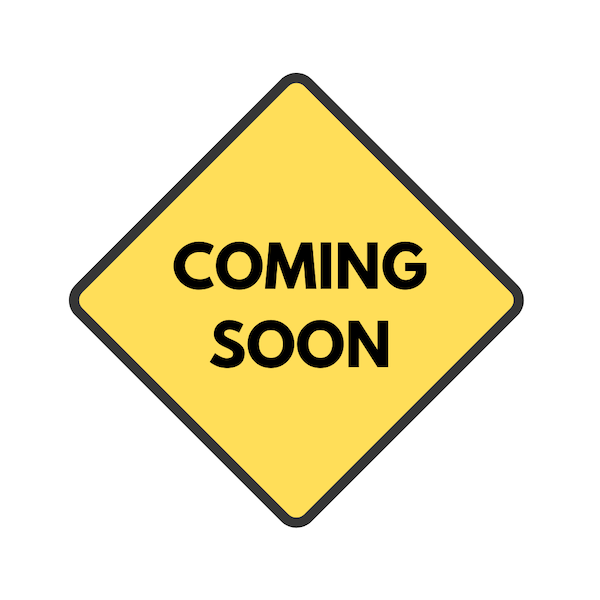
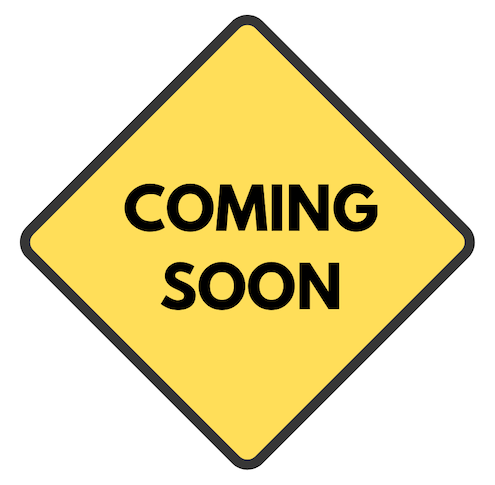
Cropped image and link to coming soon; removed testing links in _menu; corrected date of last entry in daily scrum, deleted unused code in _users

Changed region(s): [[0.0303, 0.0309, 0.9697, 0.9897]]

diff --git a/_main.php b/_main.php
@@ -18,58 +18,7 @@ $app->get('/', function ($request, $response, $args) {
     // return $response->write('this is main'); //for testing
     $loader = new FilesystemLoader(__DIR__ . '/templates');
     $twig = new Environment($loader);
-    // return $twig->render('index.html.twig'); //ss ok
-
-    // Templates
-    // return $twig->render('error_access_denied.html.twig'); //ss ok
-    // return $twig->render('error_internal.html.twig'); //ss ok
-    // return $twig->render('error_not_found.html.twig');  //ss ok
-
-    // return $twig->render('index.html.twig'); //ss ok
-
-    // return $twig->render('login_success.html.twig'); //ss ok
-    // return $twig->render('login.html.twig'); //ss ok
-    // return $twig->render('logout.html.twig'); //ss ok
-    // return $twig->render('master.html.twig'); // ok
-    // return $twig->render('menu.html.twig'); //ss ok
-    // return $twig->render('not_logged_in.html.twig'); //ss ok
-
-                // return $twig->render('profile_edit_success.html.twig');  deleted
-    // return $twig->render('profile.html.twig'); //ok
-    return $twig->render('coming_soon.html.twig'); //ss ok
-                                            return $twig->render('cart.html.twig'); // needs styling
-    // return $twig->render('cartadditem.html.twig'); //ss
-                                            return $twig->render('cartitems_delete_success.html.twig'); // needs styling
-    // return $twig->render('cartitems_delete.html.twig'); //ok
-    return $twig->render('cartitems_not_found.html.twig'); //ss ok
-
-    return $twig->render('register_success.html.twig'); //ss ok
-    return $twig->render('register.html.twig'); //ss ok
-    return $twig->render('rewards.html.twig'); //ss ok
-
-    // Admin Templates
-                                   
-    return $twig->render('/admin/adminmenu_notallowed.html.twig'); //ok
-    return $twig->render('/admin/adminmenu.html.twig'); //ss ok
-
-    return $twig->render('/admin/error_access_denied.html.twig'); //ss ok
-    return $twig->render('/admin/error_not_found.html.twig'); //ss ok
-    return $twig->render('/admin/coming_soon.html.twig'); //ss ok
-
-    return $twig->render('/admin/items_addedit_success.html.twig'); //ss  OK
-    return $twig->render('/admin/items_addedit.html.twig');//ok
-    return $twig->render('/admin/items_delete_success.html.twig');//ok
-    return $twig->render('/admin/items_delete.html.twig');//ok
-    return $twig->render('/admin/items_list.html.twig');//ok
-
-    return $twig->render('/admin/master.html.twig'); //ok
-    return $twig->render('/admin/not_found.html.twig'); //ok
-
-    return $twig->render('/admin/user_addedit.html.twig'); //ok
-    return $twig->render('/admin/user_delete.html.twig'); //ok
-    return $twig->render('/admin/users_addedit_success.html.twig'); //ok
-    return $twig->render('/admin/users_delete_success.html.twig'); // ok
-    return $twig->render('/admin/users_list.html.twig'); //ok
+    return $twig->render('index.html.twig');
 });
 
 $app->get('/session', function ($request, $response, $args) {

diff --git a/_users.php b/_users.php
@@ -278,36 +278,6 @@ $app->add(function (ServerRequestInterface $request, ResponseInterface $response
     return $next($request, $response);
 });
 
-/* ********** TODO FIXME!!!!! FUNCTIONS DECLARED IN _admin.php  *********** */
-// these functions return TRUE on success and string describing an issue on failure
-// function verifyUserName($name) {
-//     if (preg_match('/^[a-zA-Z0-9\ \\._\'"-]{4,50}$/', $name) != 1) { // no match
-//         return "Name must be 4-50 characters long and consist of letters, digits, "
-//             . "spaces, dots, underscores, apostrophies, or minus sign.";
-//     }
-//     return TRUE;
-// }
-
-// function verifyPasswordQuailty($pass1, $pass2) {
-//     if ($pass1 != $pass2) {
-//         return "Passwords do not match";
-//     } else {
-//         /*
-//         // FIXME: figure out how to use case-sensitive regexps with Validator
-//         if (!Validator::length(6,100)->regex('/[A-Z]/')->validate($pass1)) {
-//             return "VALIDATOR. Password must be 6-100 characters long, "
-//                 . "with at least one uppercase, one lowercase, and one digit in it";
-//         } */
-//         if ((strlen($pass1) < 6) || (strlen($pass1) > 100)
-//                 || (preg_match("/[A-Z]/", $pass1) == FALSE )
-//                 || (preg_match("/[a-z]/", $pass1) == FALSE )
-//                 || (preg_match("/[0-9]/", $pass1) == FALSE )) {
-//             return "Password must be 6-100 characters long, "
-//                 . "with at least one uppercase, one lowercase, and one digit in it";
-//         }
-//     }
-//     return TRUE;
-// }
 
 // STATE 1: first display
 $app->get('/coming/soon', function ($request, $response, $args) {
